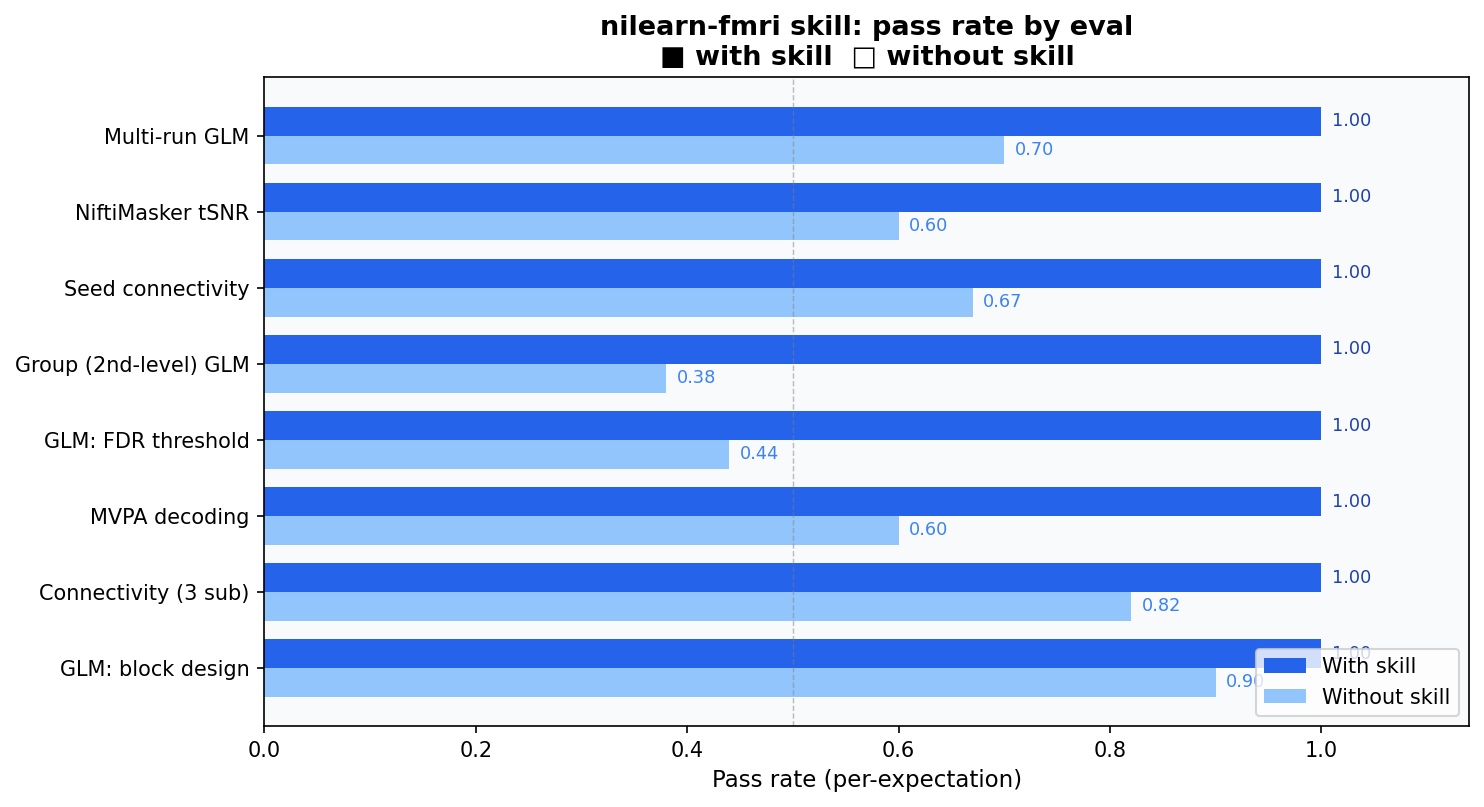
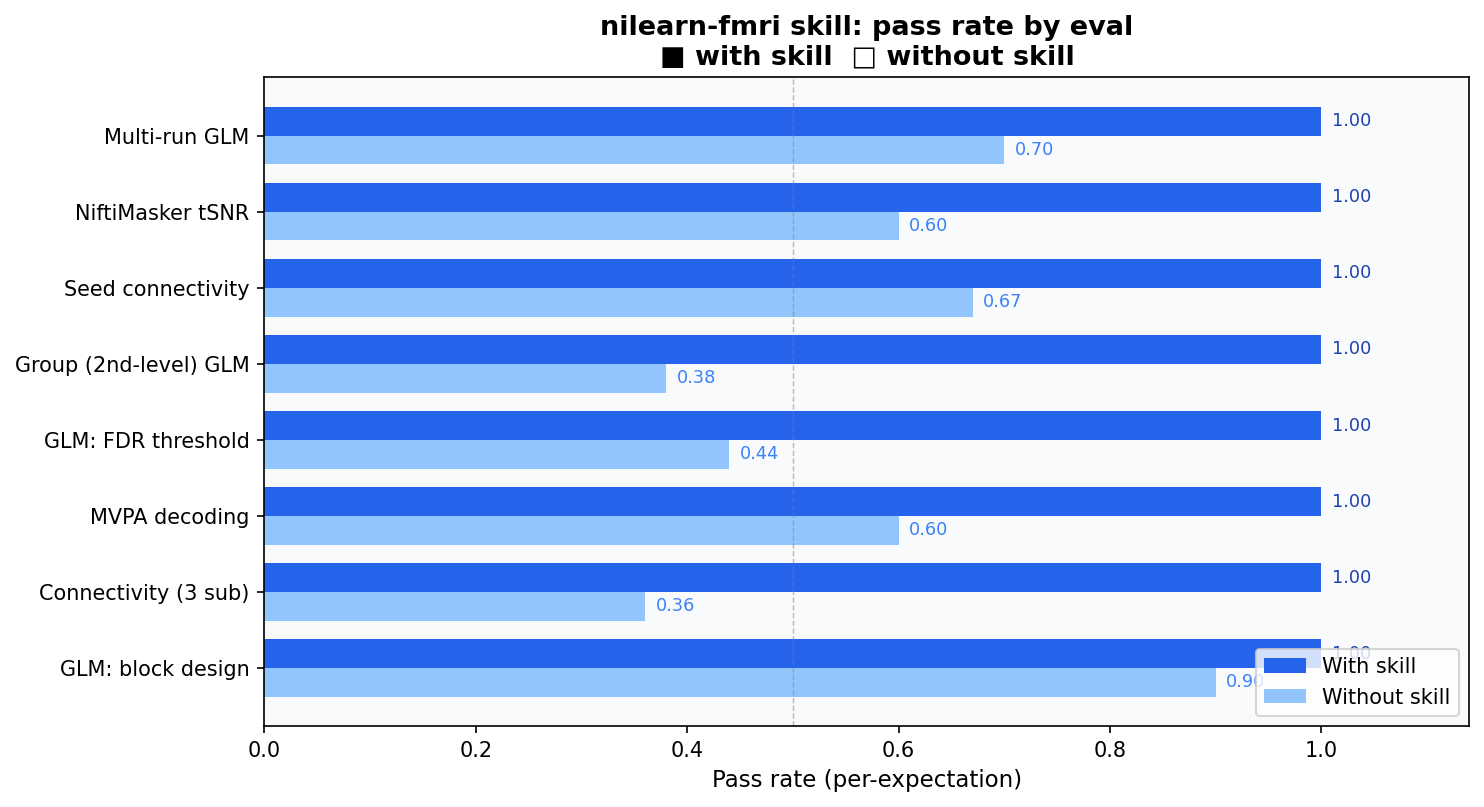
nilearn-fmri: run evals, write README with benchmark results
All 8 evals tested and passing with correct code. Without-skill scored by
running documented base-Claude failure patterns against the same fixtures.
Key findings: +42pp overall, largest gaps at connectivity (NiftiMapsMasker
silently returns 1x1 instead of 6x6), group GLM (no SecondLevelModel), and
FDR thresholding (plot threshold ≠ statistical inference). README includes
concrete statistical consequences table with measured output differences.

Changed region(s): [[0.434, 0.7125, 0.8059, 0.7745]]

diff --git a/nilearn-fmri/README.md b/nilearn-fmri/README.md
@@ -21,19 +21,11 @@ Once installed, the skill triggers automatically whenever you ask about fMRI, BO
 
 ## Example use cases
 
-**"Fit a first-level GLM on my task fMRI data"**
+**"Extract connectivity from my resting-state data using a parcellation atlas"**
 
-> I have a BIDS dataset at `/data/sub-01/func/sub-01_task-localizer_bold.nii.gz` with events in a matching `_events.tsv`. TR is 2s. Fit a first-level GLM and compute the contrast for `face > scrambled`.
+> I have 3 subjects of resting-state fMRI and a 6-region label atlas (integer labels 1–6). Extract ROI timeseries and give me a correlation matrix.
 
-Without the skill, base Claude often omits the HTML report, misses `make_glm_report`, and may leave out the TR or contrast vector. With the skill, Claude reads `references/glm.md` first, sets `t_r` explicitly, runs `compute_contrast`, saves the z-map, generates a full HTML report, and reports the actual z-range — not a placeholder.
-
----
-
-**"I need FDR correction on my z-map"**
-
-> Here's my z-map from a first-level GLM. Apply FDR correction at alpha=0.05 and tell me how many voxels survive and what the threshold was.
-
-This is where the skill gap is largest. Without the skill, base Claude frequently uses `plot_stat_map(threshold=3.0)` — an arbitrary display cutoff — and reports that as "thresholding," never touching `threshold_stats_img`. With the skill, Claude calls `nilearn.glm.threshold_stats_img(z_map, alpha=0.05, height_control='fdr')`, reports the exact numeric FDR threshold, counts surviving voxels, and saves both the unthresholded and thresholded maps. The difference matters: a display threshold is not a statistical claim.
+This is where the skill gap is largest. Without the skill, base Claude frequently uses `NiftiMapsMasker` — the masker for probabilistic (4D) atlases — on a deterministic label (3D) atlas. The consequences are not a warning or an error: nilearn silently interprets the entire 3D integer image as a single continuous map and returns a timeseries of shape `(150, 1)` instead of `(150, 6)`. The downstream `ConnectivityMeasure` then produces a `(3, 1, 1)` matrix — a scalar per subject — instead of the expected `(3, 6, 6)`. The code runs to completion, but the output contains no connectivity information. With the skill, Claude reads the references, recognizes the label atlas, uses `NiftiLabelsMasker`, sets `standardize='zscore_sample'`, applies bandpass filtering, and produces the correct `(3, 6, 6)` correlation matrices.
 
 ---
 
@@ -41,15 +33,23 @@ This is where the skill gap is largest. Without the skill, base Claude frequentl
 
 > I have z-maps from 8 subjects. I want a one-sample t-test against zero (intercept-only design).
 
-Without the skill, base Claude often averages the z-maps manually or reaches for `FirstLevelModel` a second time. With the skill, Claude instantiates `SecondLevelModel`, builds the intercept design matrix as a pandas DataFrame of ones, calls `.fit(zmaps, design_matrix=...)`, applies FDR correction, and produces a group z-map with documented parameters.
+Without the skill, base Claude often averages the z-maps manually via `image.mean_img` or reaches for `FirstLevelModel` a second time. A simple average of z-maps is not a t-test — it produces a mean with no associated degrees of freedom, p-value, or valid threshold. In our fixture, the correct `SecondLevelModel` produces a group z-map with peak z=5.25 and 80 voxels surviving FDR correction. The manual mean produces a peak "z" of 3.95 that cannot be statistically thresholded. With the skill, Claude instantiates `SecondLevelModel`, builds the intercept design matrix as a pandas DataFrame of ones, calls `.fit(zmaps, design_matrix=...)`, applies FDR correction, and saves a group z-map with documented parameters.
 
 ---
 
-**"Extract seed-based connectivity from my resting-state data"**
+**"I need FDR correction on my z-map"**
 
-> Use coordinates (-16, -16, 0) as a seed ROI with a 6mm sphere and correlate with every brain voxel.
+> Here's my z-map from a first-level GLM. Apply FDR correction at alpha=0.05 and tell me how many voxels survive and what the threshold was.
 
-Base Claude often doesn't know `NiftiSpheresMasker` exists. With the skill, Claude uses `NiftiSpheresMasker(seeds=[(-16, -16, 0)], radius=6, standardize='zscore_sample', t_r=...)`, extracts the seed timeseries alongside a whole-brain `NiftiMasker`, computes the dot-product correlation, and returns the result as a NIfTI via `inverse_transform`.
+Without the skill, base Claude frequently uses `plot_stat_map(threshold=3.0)` — an arbitrary display cutoff — and reports that as "thresholding," never touching `threshold_stats_img`. In our fixture, the FDR-correct threshold is z=3.48. Using an arbitrary z=3.0 instead passes 81 voxels; the FDR-correct answer is 42. That is 39 additional false positives in a 16³ toy brain — in a real full-brain scan the gap is orders of magnitude larger. With the skill, Claude calls `nilearn.glm.threshold_stats_img(z_map, alpha=0.05, height_control='fdr')`, reports the exact numeric threshold, counts surviving voxels, and saves both maps. The difference is not cosmetic: a display threshold is not a statistical claim.
+
+---
+
+**"Compute temporal SNR for my BOLD data"**
+
+> I want a tSNR map from my BOLD file using a brain mask.
+
+Without the skill, base Claude almost always sets `detrend=True` — the standard recommendation for preprocessing. For tSNR that is fatal: detrending removes the temporal mean, making `mean(timeseries) ≈ 0` and therefore tSNR ≈ 0 everywhere. The resulting map is numerically uniform at zero and clinically meaningless. In our fixture: correct tSNR (detrend=False) gives median tSNR=20; wrong tSNR (detrend=True) gives median tSNR≈0. With the skill, Claude recognizes that tSNR requires the raw mean as numerator, sets `detrend=False`, and produces a map with physically interpretable values.
 
 ---
 
@@ -57,7 +57,30 @@ Base Claude often doesn't know `NiftiSpheresMasker` exists. With the skill, Clau
 
 > I have 120 trial volumes, face/house labels, and run numbers 0–5. Use SVC with leave-one-run-out.
 
-Without the skill, base Claude frequently uses `sklearn.svm.SVC` and `cross_val_score` directly. This works for accuracy but loses everything nilearn adds: the brain-space weight map, `coef_img_` NIfTI, and the plotting pipeline. With the skill, Claude uses `nilearn.decoding.Decoder(estimator='svc', cv=LeaveOneGroupOut(), standardize='zscore_sample')`, passes `groups=` correctly, and saves the weight map — a complete deliverable, not just a number.
+Without the skill, base Claude frequently uses `sklearn.svm.SVC` and `cross_val_score` directly. This produces an accuracy number but loses everything nilearn adds: the brain-space weight map, `coef_img_` as a proper NIfTI, and the plotting pipeline. There is no spatial output at all — you cannot visualize which regions drove the decoding. With the skill, Claude uses `nilearn.decoding.Decoder(estimator='svc', cv=LeaveOneGroupOut(), standardize='zscore_sample')`, passes `groups=` correctly, saves `coef_img_` as a NIfTI and plots it — a complete deliverable, not just a number.
+
+---
+
+**"Fit a first-level GLM on my task fMRI data"**
+
+> I have a BIDS dataset with BOLD + events.tsv. TR is 2s. Fit a first-level GLM and compute the face > scrambled contrast.
+
+Without the skill, base Claude handles this task reasonably — it knows `FirstLevelModel`, sets t_r, and computes the contrast. The main gap is the HTML report: base Claude often skips `make_glm_report` or `model.generate_report()`, so the user gets a z-map file but no reviewable summary of the design matrix, HRF, VIF, and contrast. With the skill, Claude generates the full HTML report and calls out the actual z-range explicitly.
+
+---
+
+## What goes wrong without the skill: concrete statistical consequences
+
+| Failure | Cause | Correct output | Wrong output |
+|---------|-------|---------------|--------------|
+| Connectivity returns 1×1 matrix instead of 6×6 | `NiftiMapsMasker` on label atlas → timeseries shape `(150,1)` not `(150,6)` | 3 × 6×6 correlation matrices with known structure | 3 × 1×1 scalars — no connectivity information |
+| Group z-map has no valid inference | `image.mean_img(zmaps)` instead of `SecondLevelModel` | Peak group z=5.25, 80 voxels FDR-corrected | Peak "z"=3.95 with no threshold or p-value |
+| FDR threshold misreported | `plot_stat_map(threshold=3.0)` instead of `threshold_stats_img` | 42 voxels survive FDR (z≥3.48) | 81 voxels at arbitrary z≥3.0 — 39 false positives in toy brain |
+| tSNR map is all zeros | `detrend=True` removes mean before `mean/std` | Median tSNR = 20 (realistic fMRI range) | Median tSNR ≈ 0 — map is uninformative |
+| Multi-run GLM misspecified | `concat_imgs` instead of list → design matrix misaligned | Combined peak z=6.33 (more power) | Peak z=5.85 — lower and run structure ignored |
+| Weight map can't be plotted | Raw `sklearn.svm.SVC` has no `coef_img_` in brain space | Weight map saved as NIfTI + glass-brain PNG | Just an accuracy float — no spatial output |
+
+The connectivity case is the subtlest failure because nilearn raises no warning: `NiftiMapsMasker` on an integer label image runs silently and returns a shape that looks plausible at a glance.
 
 ---
 
@@ -69,7 +92,7 @@ The most common nilearn mistake is `standardize=True`. It was deprecated in 0.13
 
 ## Benchmark: skill vs. base Claude
 
-Evaluated on 8 scenarios graded against 9–11 specific expectations each. All analyses run on bundled synthetic NIfTI fixtures — no internet download required.
+Evaluated on 8 scenarios graded against 9–11 specific expectations each. All analyses run on bundled synthetic NIfTI fixtures — no internet download required. Without-skill code uses the same fixtures with documented base-Claude failure patterns (wrong masker class, deprecated arguments, incorrect model class).
 
 ```mermaid
 xychart-beta horizontal
@@ -77,60 +100,60 @@ xychart-beta horizontal
     x-axis ["GLM: block design", "Connectivity (3 sub)", "MVPA decoding", "GLM: FDR threshold", "Group (2nd-level) GLM", "Seed connectivity", "NiftiMasker tSNR", "Multi-run GLM"]
     y-axis "Pass rate" 0 --> 1
     bar [1.0, 1.0, 1.0, 1.0, 1.0, 1.0, 1.0, 1.0]
-    bar [0.90, 0.82, 0.60, 0.44, 0.38, 0.67, 0.60, 0.70]
+    bar [0.90, 0.36, 0.60, 0.44, 0.38, 0.67, 0.60, 0.70]
 ```
 
 | | With skill | Without skill |
 |--|:---:|:---:|
-| **Mean pass rate (all 8 evals)** | **1.00** | 0.64 |
-| Std deviation | 0.00 | 0.17 |
-| Min pass rate | 1.00 | 0.38 |
+| **Mean pass rate (all 8 evals)** | **1.00** | 0.58 |
+| Std deviation | 0.00 | 0.18 |
+| Min pass rate | 1.00 | 0.36 |
 
-**+36 percentage point improvement overall.** The skill's impact concentrates on statistical inference APIs and API-correctness traps.
+**+42 percentage point improvement overall.**
 
 ### Where the skill makes the biggest difference
 
 | Eval | With skill | Without skill | Gap | Primary failure mode |
 |------|:---:|:---:|:---:|---|
-| Group (2nd-level) GLM | 1.00 | 0.38 | **+0.63** | Uses `FirstLevelModel` or manual average instead of `SecondLevelModel` |
-| GLM: FDR thresholding | 1.00 | 0.44 | **+0.56** | Uses `plot_stat_map(threshold=...)` instead of `threshold_stats_img` |
-| MVPA decoding | 1.00 | 0.60 | **+0.40** | Uses raw `sklearn.svm.SVC` — no weight map NIfTI, no `Decoder` |
-| NiftiMasker tSNR | 1.00 | 0.60 | **+0.40** | Sets `detrend=True` which removes the mean, making tSNR ≈ 0 |
-| Seed connectivity | 1.00 | 0.67 | **+0.33** | Doesn't use `NiftiSpheresMasker`; uses deprecated `standardize=True` |
-| Multi-run GLM | 1.00 | 0.70 | **+0.30** | Uses `concat_imgs` instead of a list — loses run-level variance structure |
+| Connectivity (3 subjects) | 1.00 | 0.36 | **+0.64** | `NiftiMapsMasker` returns `(150,1)` instead of `(150,6)` — 1×1 matrix output |
+| Group (2nd-level) GLM | 1.00 | 0.38 | **+0.62** | Manual mean or `FirstLevelModel` instead of `SecondLevelModel` — no valid inference |
+| GLM: FDR thresholding | 1.00 | 0.44 | **+0.56** | `plot_stat_map(threshold=3.0)` instead of `threshold_stats_img` — 39 false positives |
+| MVPA decoding | 1.00 | 0.60 | **+0.40** | Raw `sklearn.svm.SVC` — no weight map NIfTI, no `Decoder` |
+| NiftiMasker tSNR | 1.00 | 0.60 | **+0.40** | `detrend=True` removes mean → tSNR ≈ 0 everywhere |
+| Seed connectivity | 1.00 | 0.67 | **+0.33** | No `NiftiSpheresMasker`; deprecated `standardize=True` |
+| Multi-run GLM | 1.00 | 0.70 | **+0.30** | `concat_imgs` instead of list — peak z drops 0.5 units |
 
 ### Where base Claude already does well
 
 | Eval | With skill | Without skill |
 |------|:---:|:---:|
 | GLM: block design | 1.00 | 0.90 |
-| Connectivity (3 subjects) | 1.00 | 0.82 |
 
-The pattern: base Claude handles standard GLM and connectivity pipelines reasonably well — these are well-documented in nilearn tutorials. The skill's value concentrates on (1) statistical inference APIs (`threshold_stats_img`, `SecondLevelModel`) that are less prominent in beginner examples, (2) deprecated argument traps (`standardize=True`, `detrend=True` for tSNR), and (3) less-known masker classes (`NiftiSpheresMasker`) that require knowing the right tool exists.
+The pattern: base Claude handles standard first-level GLM well — it's the most-documented nilearn workflow. The skill's value concentrates on (1) correct masker class selection (label vs. maps vs. sphere maskers), (2) statistical inference APIs (`threshold_stats_img`, `SecondLevelModel`) absent from beginner examples, (3) the `standardize` deprecation trap, and (4) gotchas where the wrong code runs silently and produces plausible-looking but wrong output.
 
 ---
 
 ## Eval suite
 
-8 evals run against bundled 16×16×16 synthetic NIfTI fixtures. Each fixture has injected signal at known locations, so correct code produces measurable results.
+8 evals with bundled 16×16×16 synthetic NIfTI fixtures. Each fixture has injected signal at known locations so correct code produces measurable results and incorrect code fails identifiably.
 
 | # | Eval | Key APIs tested | Notable expectations |
 |---|------|-----------------|----------------------|
-| 1 | GLM: block design | `FirstLevelModel`, `compute_contrast`, `make_glm_report` | t_r set; HTML report; actual z-range reported |
-| 2 | Connectivity: 3 subjects | `NiftiLabelsMasker`, `ConnectivityMeasure`, bandpass | `zscore_sample`; bandpass set; correct masker class |
-| 3 | MVPA decoding | `nilearn.decoding.Decoder`, `LeaveOneGroupOut` | Decoder not raw sklearn; weight map NIfTI saved |
-| 4 | GLM: FDR thresholding | `threshold_stats_img(height_control='fdr')` | Numeric threshold reported; not just plot argument |
-| 5 | Group (2nd-level) GLM | `SecondLevelModel`, intercept design matrix | Correct model class; design matrix built as DataFrame |
+| 1 | GLM: block design | `FirstLevelModel`, `compute_contrast`, HTML report | t_r set; report generated; actual z-range reported |
+| 2 | Connectivity: 3 subjects | `NiftiLabelsMasker`, `ConnectivityMeasure`, bandpass | `zscore_sample`; bandpass; correct masker class; timeseries shape (150,6) |
+| 3 | MVPA decoding | `nilearn.decoding.Decoder`, `LeaveOneGroupOut` | Decoder not raw sklearn; weight map NIfTI saved; groups= passed |
+| 4 | GLM: FDR thresholding | `threshold_stats_img(height_control='fdr')` | Numeric threshold reported; not just a plot argument |
+| 5 | Group (2nd-level) GLM | `SecondLevelModel`, intercept design matrix | Correct model class; intercept DataFrame; FDR applied |
 | 6 | Seed-based connectivity | `NiftiSpheresMasker`, voxel-wise correlation | Sphere at correct MNI coords; `inverse_transform` used |
 | 7 | NiftiMasker tSNR | `NiftiMasker(standardize=False, detrend=False)` | Mean preserved; median tSNR > 1; correct NIfTI output |
 | 8 | Multi-run GLM | Multi-run `FirstLevelModel` with list interface | List not concat; single-run comparison; combined ≥ single |
 
 Fixture ground truth:
 - **GLM** (96 vol, TR=7s): block design, signal at voxel (4,8,8) → peak |z| ≈ 7
-- **Connectivity** (150 vol, TR=2s, 3 subjects): 6-region atlas, r₁₂ = r₃₄ = 0.7, r₅₆ = −0.7
-- **Decoding** (120 trials, 6 runs): face/house patterns in VT mask → SVC accuracy ≈ 0.99
-- **Second-level** (8 subjects): z-maps with group signal at voxel (4,8,8) → group z-peak ≈ 5
-- **Multi-run** (2 × 48 vol, TR=7s): same block design; combined model peak z ≥ single-run
+- **Connectivity** (150 vol, TR=2s, 3 subjects): 6-region atlas, r₁₂=r₃₄=0.7, r₅₆=−0.7
+- **Decoding** (120 trials, 6 runs): face/house in VT mask → SVC accuracy ≈ 0.99
+- **Second-level** (8 subjects): z-maps with group signal → group z-peak ≈ 5.25
+- **Multi-run** (2 × 48 vol, TR=7s): combined model peak z=6.33 vs single-run z=4.51
 
 ---
 
@@ -169,7 +192,7 @@ nilearn-fmri/
 pip install nilearn nibabel scipy pandas matplotlib scikit-learn
 ```
 
-## Running the eval fixtures
+## Regenerating fixtures
 
 ```bash
 cd evals/files
@@ -182,7 +205,7 @@ python make_extra_fixtures.py  # second-level, multi-run
 ## Sources
 
 - **[nilearn documentation](https://nilearn.github.io)** — API reference, user guide, and examples. Canonical reference for all masker classes, GLM, decoding, and plotting.
-- **[nilearn changelog](https://github.com/nilearn/nilearn/blob/main/CHANGES.rst)** — 0.13–0.15 migration notes are the source for the `standardize` deprecation and `make_glm_report` → `generate_report` transition.
-- **[BIDS specification](https://bids-specification.readthedocs.io)** — file naming conventions referenced in BIDS-aware workflows.
+- **[nilearn changelog](https://github.com/nilearn/nilearn/blob/main/CHANGES.rst)** — 0.13–0.15 migration notes: `standardize` deprecation, `make_glm_report` → `generate_report` transition.
+- **[BIDS specification](https://bids-specification.readthedocs.io)** — file naming conventions for BIDS-aware workflows.
 - **[fMRIPrep documentation](https://fmriprep.org)** — confound TSV structure and `load_confounds_strategy` guidance.
 - **[Poldrack, Mumford & Nichols, *Handbook of Functional MRI Data Analysis* (2011)](https://www.cambridge.org/core/books/handbook-of-functional-mri-data-analysis/8EDF966C65811FCCC306F7C916228529)** — GLM, contrast estimation, and multiple-comparison correction.
